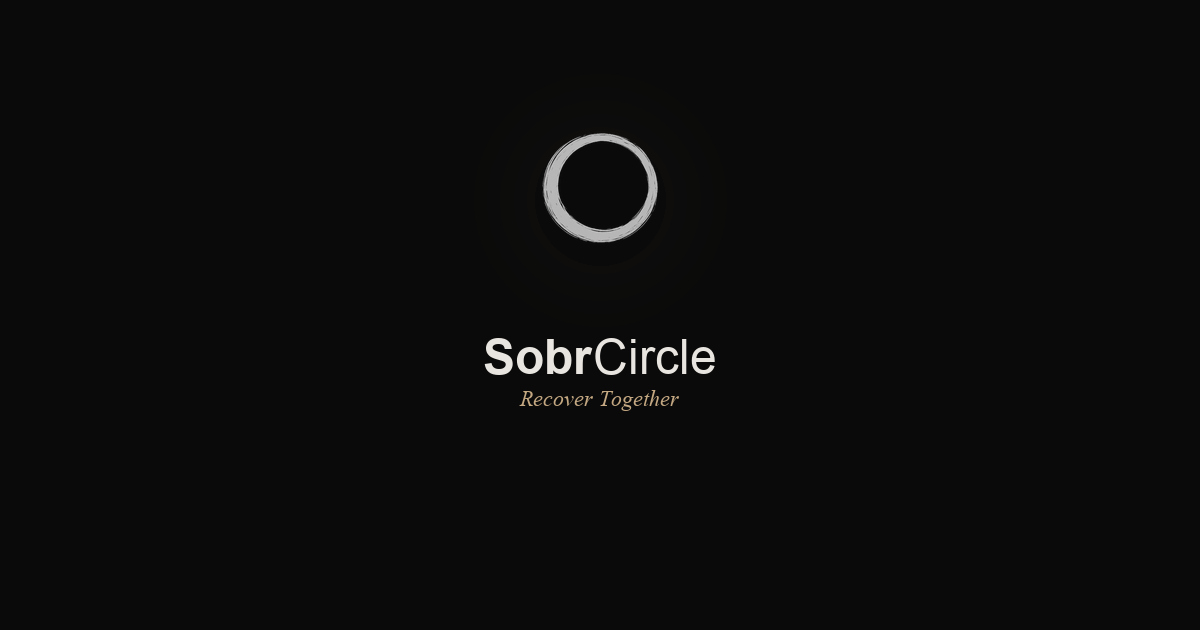
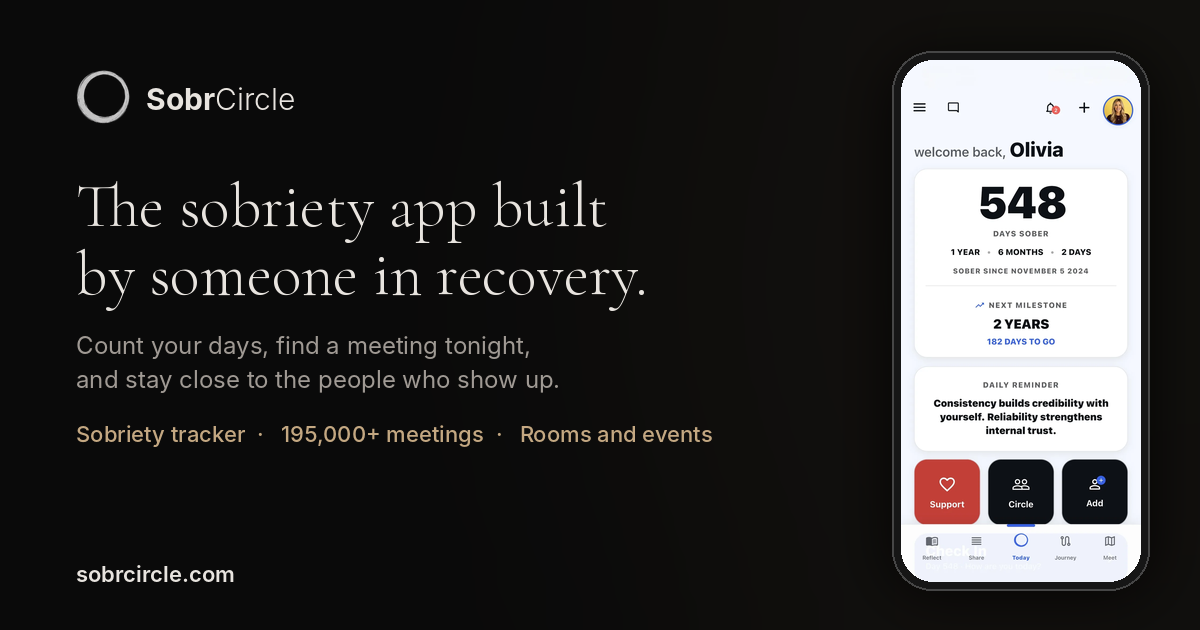
Share previews say what SobrCircle is
- New 1200x630 link previews: og-share.png ("The sobriety app built by
  someone in recovery", tracker screenshot) and og-meetings.png ("Find
  recovery meetings near you, tonight", live navigation screenshot).
  Meeting pages use the map one, every other page the tracker one.
- Homepage share title/description replace "Recover Together." / "A
  private space for the people who show up." with what the app does;
  meta description now names sobriety and recovery app, tracker,
  meetings with live navigation, rooms and events. og:image:alt added.
- Legal and support pages get canonical and share tags so shared links
  show a proper card.
- scripts/make-share-images.py redraws the previews.

Claude-Session: https://claude.ai/code/session_01DqsBy6kUDTMmp6qgPayhyK

diff --git a/index.html b/index.html
@@ -12,21 +12,22 @@
     <meta name="theme-color" media="(prefers-color-scheme: dark)" content="#0a0a0a" />
     <meta name="theme-color" content="#0a0a0a" />
     <meta name="apple-mobile-web-app-status-bar-style" content="black-translucent" />
-    <meta name="description" content="The sobriety app built by someone in recovery. Sobriety tracker, sober community rooms and events, and 195,000+ meetings, including AA, NA and CA." />
+    <meta name="description" content="The sobriety and recovery app built by someone in recovery. Sobriety tracker, 195,000+ AA, NA and CA meetings with live navigation, rooms and events." />
     <link rel="canonical" href="https://sobrcircle.com/" />
     <meta name="apple-itunes-app" content="app-id=6760403731" />
     <meta property="og:type" content="website" />
     <meta property="og:site_name" content="SobrCircle" />
-    <meta property="og:title" content="SobrCircle - Recover Together." />
-    <meta property="og:description" content="A private space for the people who show up." />
+    <meta property="og:title" content="SobrCircle: The Sobriety App Built by Someone in Recovery" />
+    <meta property="og:description" content="Sobriety tracker, 195,000+ meetings with live navigation, and rooms and events with people who get it. Free to download." />
     <meta property="og:url" content="https://sobrcircle.com/" />
-    <meta property="og:image" content="https://sobrcircle.com/assets/og-share.png?v=6" />
+    <meta property="og:image" content="https://sobrcircle.com/assets/og-share.png?v=7" />
     <meta property="og:image:width" content="1200" />
     <meta property="og:image:height" content="630" />
+    <meta property="og:image:alt" content="SobrCircle, the sobriety app built by someone in recovery: sobriety tracker, 195,000+ meetings, rooms and events" />
     <meta name="twitter:card" content="summary_large_image" />
-    <meta name="twitter:title" content="SobrCircle - Recover Together." />
-    <meta name="twitter:description" content="A private space for the people who show up." />
-    <meta name="twitter:image" content="https://sobrcircle.com/assets/og-share.png?v=6" />
+    <meta name="twitter:title" content="SobrCircle: The Sobriety App Built by Someone in Recovery" />
+    <meta name="twitter:description" content="Sobriety tracker, 195,000+ meetings with live navigation, and rooms and events with people who get it. Free to download." />
+    <meta name="twitter:image" content="https://sobrcircle.com/assets/og-share.png?v=7" />
     <title>SobrCircle: Sober App, Sobriety Tracker and Meeting Finder</title>
     <script type="application/ld+json">
       {
@@ -49,7 +50,7 @@
             "description": "A private recovery community app, free to download with no ads. Find 195,000+ meetings near you, including AA, NA and CA, with meeting times and live navigation by car, foot, bike or transit. Join public and private rooms, find community events and members near you, check in daily, keep a private journal, and stay connected to a circle of people you choose.",
             "applicationCategory": "HealthApplication",
             "operatingSystem": "iOS, Android",
-            "image": "https://sobrcircle.com/assets/og-share.png",
+            "image": "https://sobrcircle.com/assets/og-share.png?v=7",
             "offers": { "@type": "Offer", "price": "0", "priceCurrency": "CAD" },
             "installUrl": [
               "https://apps.apple.com/app/sobrcircle/id6760403731",

diff --git a/scripts/build-pages.ts b/scripts/build-pages.ts
@@ -76,6 +76,8 @@ type PageOpts = {
   jsonLd?: object[]
   nav?: 'meetings' | 'follow'
   noindex?: boolean
+  /** Share image: the map screenshot for meeting pages, the tracker for the rest. */
+  ogImage?: 'meetings' | 'share'
 }
 
 function nav(current?: PageOpts['nav']) {
@@ -121,6 +123,11 @@ function footer() {
 
 function page(o: PageOpts) {
   const url = SITE + o.path
+  const meetings = (o.ogImage ?? (o.path.startsWith('/meetings/') ? 'meetings' : 'share')) === 'meetings'
+  const ogImg = `${SITE}/assets/${meetings ? 'og-meetings' : 'og-share'}.png?v=7`
+  const ogAlt = meetings
+    ? 'Find recovery meetings near you with SobrCircle: 195,000+ meetings with times and live navigation'
+    : 'SobrCircle, the sobriety app built by someone in recovery: sobriety tracker, 195,000+ meetings, rooms and events'
   const ld = [
     ...(o.jsonLd ?? []),
   ]
@@ -140,13 +147,14 @@ function page(o: PageOpts) {
     <meta property="og:title" content="${esc(o.title)}">
     <meta property="og:description" content="${esc(o.description)}">
     <meta property="og:url" content="${url}">
-    <meta property="og:image" content="${SITE}/assets/og-share.png?v=6">
+    <meta property="og:image" content="${ogImg}">
+    <meta property="og:image:alt" content="${esc(ogAlt)}">
     <meta property="og:image:width" content="1200">
     <meta property="og:image:height" content="630">
     <meta name="twitter:card" content="summary_large_image">
     <meta name="twitter:title" content="${esc(o.title)}">
     <meta name="twitter:description" content="${esc(o.description)}">
-    <meta name="twitter:image" content="${SITE}/assets/og-share.png?v=6">
+    <meta name="twitter:image" content="${ogImg}">
     <link rel="icon" href="/favicon.ico" sizes="48x48">
     <link rel="icon" type="image/png" sizes="192x192" href="/favicon-192.png">
     <link rel="apple-touch-icon" sizes="180x180" href="/apple-touch-icon.png?v=4">

diff --git a/public/meetings/cocaine-anonymous/index.html b/public/meetings/cocaine-anonymous/index.html
@@ -15,13 +15,14 @@
     <meta property="og:title" content="Cocaine Anonymous Meetings Near Me: Find CA Meetings Tonight">
     <meta property="og:description" content="Find Cocaine Anonymous (CA) meetings near you, in person or online. What CA meetings are like, and an app that maps recovery meetings near you with directions.">
     <meta property="og:url" content="https://sobrcircle.com/meetings/cocaine-anonymous/">
-    <meta property="og:image" content="https://sobrcircle.com/assets/og-share.png?v=6">
+    <meta property="og:image" content="https://sobrcircle.com/assets/og-meetings.png?v=7">
+    <meta property="og:image:alt" content="Find recovery meetings near you with SobrCircle: 195,000+ meetings with times and live navigation">
     <meta property="og:image:width" content="1200">
     <meta property="og:image:height" content="630">
     <meta name="twitter:card" content="summary_large_image">
     <meta name="twitter:title" content="Cocaine Anonymous Meetings Near Me: Find CA Meetings Tonight">
     <meta name="twitter:description" content="Find Cocaine Anonymous (CA) meetings near you, in person or online. What CA meetings are like, and an app that maps recovery meetings near you with directions.">
-    <meta name="twitter:image" content="https://sobrcircle.com/assets/og-share.png?v=6">
+    <meta name="twitter:image" content="https://sobrcircle.com/assets/og-meetings.png?v=7">
     <link rel="icon" href="/favicon.ico" sizes="48x48">
     <link rel="icon" type="image/png" sizes="192x192" href="/favicon-192.png">
     <link rel="apple-touch-icon" sizes="180x180" href="/apple-touch-icon.png?v=4">

diff --git a/public/sober-community/index.html b/public/sober-community/index.html
@@ -15,13 +15,14 @@
     <meta property="og:title" content="Sober Community App: Rooms, Events and Sober Friends Near You">
     <meta property="og:description" content="Join a sober community app with no ads. Public and private rooms, group chats, members and community events near you, and a private circle of people you trust.">
     <meta property="og:url" content="https://sobrcircle.com/sober-community/">
-    <meta property="og:image" content="https://sobrcircle.com/assets/og-share.png?v=6">
+    <meta property="og:image" content="https://sobrcircle.com/assets/og-share.png?v=7">
+    <meta property="og:image:alt" content="SobrCircle, the sobriety app built by someone in recovery: sobriety tracker, 195,000+ meetings, rooms and events">
     <meta property="og:image:width" content="1200">
     <meta property="og:image:height" content="630">
     <meta name="twitter:card" content="summary_large_image">
     <meta name="twitter:title" content="Sober Community App: Rooms, Events and Sober Friends Near You">
     <meta name="twitter:description" content="Join a sober community app with no ads. Public and private rooms, group chats, members and community events near you, and a private circle of people you trust.">
-    <meta name="twitter:image" content="https://sobrcircle.com/assets/og-share.png?v=6">
+    <meta name="twitter:image" content="https://sobrcircle.com/assets/og-share.png?v=7">
     <link rel="icon" href="/favicon.ico" sizes="48x48">
     <link rel="icon" type="image/png" sizes="192x192" href="/favicon-192.png">
     <link rel="apple-touch-icon" sizes="180x180" href="/apple-touch-icon.png?v=4">

diff --git a/public/sober-grid-alternative/index.html b/public/sober-grid-alternative/index.html
@@ -15,13 +15,14 @@
     <meta property="og:title" content="Sober Grid Alternative: A Sober Community App With No Ads">
     <meta property="og:description" content="Looking for a Sober Grid alternative? SobrCircle is a sober community app with no ads: public rooms, members near you, events, a sobriety tracker and meetings.">
     <meta property="og:url" content="https://sobrcircle.com/sober-grid-alternative/">
-    <meta property="og:image" content="https://sobrcircle.com/assets/og-share.png?v=6">
+    <meta property="og:image" content="https://sobrcircle.com/assets/og-share.png?v=7">
+    <meta property="og:image:alt" content="SobrCircle, the sobriety app built by someone in recovery: sobriety tracker, 195,000+ meetings, rooms and events">
     <meta property="og:image:width" content="1200">
     <meta property="og:image:height" content="630">
     <meta name="twitter:card" content="summary_large_image">
     <meta name="twitter:title" content="Sober Grid Alternative: A Sober Community App With No Ads">
     <meta name="twitter:description" content="Looking for a Sober Grid alternative? SobrCircle is a sober community app with no ads: public rooms, members near you, events, a sobriety tracker and meetings.">
-    <meta name="twitter:image" content="https://sobrcircle.com/assets/og-share.png?v=6">
+    <meta name="twitter:image" content="https://sobrcircle.com/assets/og-share.png?v=7">
     <link rel="icon" href="/favicon.ico" sizes="48x48">
     <link rel="icon" type="image/png" sizes="192x192" href="/favicon-192.png">
     <link rel="apple-touch-icon" sizes="180x180" href="/apple-touch-icon.png?v=4">

diff --git a/public/meetings/aa/index.html b/public/meetings/aa/index.html
@@ -15,13 +15,14 @@
     <meta property="og:title" content="AA Meetings Near Me: Find Alcoholics Anonymous Meetings Tonight">
     <meta property="og:description" content="Find AA meetings near you tonight, in person or online. Open and closed meetings, what to expect at your first one, and an app that maps meetings with directions.">
     <meta property="og:url" content="https://sobrcircle.com/meetings/aa/">
-    <meta property="og:image" content="https://sobrcircle.com/assets/og-share.png?v=6">
+    <meta property="og:image" content="https://sobrcircle.com/assets/og-meetings.png?v=7">
+    <meta property="og:image:alt" content="Find recovery meetings near you with SobrCircle: 195,000+ meetings with times and live navigation">
     <meta property="og:image:width" content="1200">
     <meta property="og:image:height" content="630">
     <meta name="twitter:card" content="summary_large_image">
     <meta name="twitter:title" content="AA Meetings Near Me: Find Alcoholics Anonymous Meetings Tonight">
     <meta name="twitter:description" content="Find AA meetings near you tonight, in person or online. Open and closed meetings, what to expect at your first one, and an app that maps meetings with directions.">
-    <meta name="twitter:image" content="https://sobrcircle.com/assets/og-share.png?v=6">
+    <meta name="twitter:image" content="https://sobrcircle.com/assets/og-meetings.png?v=7">
     <link rel="icon" href="/favicon.ico" sizes="48x48">
     <link rel="icon" type="image/png" sizes="192x192" href="/favicon-192.png">
     <link rel="apple-touch-icon" sizes="180x180" href="/apple-touch-icon.png?v=4">

diff --git a/public/meetings/hamilton/index.html b/public/meetings/hamilton/index.html
@@ -15,13 +15,14 @@
     <meta property="og:title" content="AA and NA Meetings in Hamilton, Ontario: Find a Meeting Tonight">
     <meta property="og:description" content="Find AA, NA and Cocaine Anonymous meetings in Hamilton tonight. Local meeting directories, help lines, and an app with live navigation to meetings near you.">
     <meta property="og:url" content="https://sobrcircle.com/meetings/hamilton/">
-    <meta property="og:image" content="https://sobrcircle.com/assets/og-share.png?v=6">
+    <meta property="og:image" content="https://sobrcircle.com/assets/og-meetings.png?v=7">
+    <meta property="og:image:alt" content="Find recovery meetings near you with SobrCircle: 195,000+ meetings with times and live navigation">
     <meta property="og:image:width" content="1200">
     <meta property="og:image:height" content="630">
     <meta name="twitter:card" content="summary_large_image">
     <meta name="twitter:title" content="AA and NA Meetings in Hamilton, Ontario: Find a Meeting Tonight">
     <meta name="twitter:description" content="Find AA, NA and Cocaine Anonymous meetings in Hamilton tonight. Local meeting directories, help lines, and an app with live navigation to meetings near you.">
-    <meta name="twitter:image" content="https://sobrcircle.com/assets/og-share.png?v=6">
+    <meta name="twitter:image" content="https://sobrcircle.com/assets/og-meetings.png?v=7">
     <link rel="icon" href="/favicon.ico" sizes="48x48">
     <link rel="icon" type="image/png" sizes="192x192" href="/favicon-192.png">
     <link rel="apple-touch-icon" sizes="180x180" href="/apple-touch-icon.png?v=4">

diff --git a/public/meetings/london-ontario/index.html b/public/meetings/london-ontario/index.html
@@ -15,13 +15,14 @@
     <meta property="og:title" content="AA and NA Meetings in London, Ontario: Find a Meeting Tonight">
     <meta property="og:description" content="Find AA, NA and Cocaine Anonymous meetings in London tonight. Local meeting directories, help lines, and an app with live navigation to meetings near you.">
     <meta property="og:url" content="https://sobrcircle.com/meetings/london-ontario/">
-    <meta property="og:image" content="https://sobrcircle.com/assets/og-share.png?v=6">
+    <meta property="og:image" content="https://sobrcircle.com/assets/og-meetings.png?v=7">
+    <meta property="og:image:alt" content="Find recovery meetings near you with SobrCircle: 195,000+ meetings with times and live navigation">
     <meta property="og:image:width" content="1200">
     <meta property="og:image:height" content="630">
     <meta name="twitter:card" content="summary_large_image">
     <meta name="twitter:title" content="AA and NA Meetings in London, Ontario: Find a Meeting Tonight">
     <meta name="twitter:description" content="Find AA, NA and Cocaine Anonymous meetings in London tonight. Local meeting directories, help lines, and an app with live navigation to meetings near you.">
-    <meta name="twitter:image" content="https://sobrcircle.com/assets/og-share.png?v=6">
+    <meta name="twitter:image" content="https://sobrcircle.com/assets/og-meetings.png?v=7">
     <link rel="icon" href="/favicon.ico" sizes="48x48">
     <link rel="icon" type="image/png" sizes="192x192" href="/favicon-192.png">
     <link rel="apple-touch-icon" sizes="180x180" href="/apple-touch-icon.png?v=4">

diff --git a/public/meetings/chicago/index.html b/public/meetings/chicago/index.html
@@ -15,13 +15,14 @@
     <meta property="og:title" content="AA and NA Meetings in Chicago, Illinois: Find a Meeting Tonight">
     <meta property="og:description" content="Find AA, NA and Cocaine Anonymous meetings in Chicago tonight. Local meeting directories, help lines, and an app with live navigation to meetings near you.">
     <meta property="og:url" content="https://sobrcircle.com/meetings/chicago/">
-    <meta property="og:image" content="https://sobrcircle.com/assets/og-share.png?v=6">
+    <meta property="og:image" content="https://sobrcircle.com/assets/og-meetings.png?v=7">
+    <meta property="og:image:alt" content="Find recovery meetings near you with SobrCircle: 195,000+ meetings with times and live navigation">
     <meta property="og:image:width" content="1200">
     <meta property="og:image:height" content="630">
     <meta name="twitter:card" content="summary_large_image">
     <meta name="twitter:title" content="AA and NA Meetings in Chicago, Illinois: Find a Meeting Tonight">
     <meta name="twitter:description" content="Find AA, NA and Cocaine Anonymous meetings in Chicago tonight. Local meeting directories, help lines, and an app with live navigation to meetings near you.">
-    <meta name="twitter:image" content="https://sobrcircle.com/assets/og-share.png?v=6">
+    <meta name="twitter:image" content="https://sobrcircle.com/assets/og-meetings.png?v=7">
     <link rel="icon" href="/favicon.ico" sizes="48x48">
     <link rel="icon" type="image/png" sizes="192x192" href="/favicon-192.png">
     <link rel="apple-touch-icon" sizes="180x180" href="/apple-touch-icon.png?v=4">

diff --git a/public/meetings/detroit/index.html b/public/meetings/detroit/index.html
@@ -15,13 +15,14 @@
     <meta property="og:title" content="AA and NA Meetings in Detroit, Michigan: Find a Meeting Tonight">
     <meta property="og:description" content="Find AA, NA and Cocaine Anonymous meetings in Detroit tonight. Local meeting directories, help lines, and an app with live navigation to meetings near you.">
     <meta property="og:url" content="https://sobrcircle.com/meetings/detroit/">
-    <meta property="og:image" content="https://sobrcircle.com/assets/og-share.png?v=6">
+    <meta property="og:image" content="https://sobrcircle.com/assets/og-meetings.png?v=7">
+    <meta property="og:image:alt" content="Find recovery meetings near you with SobrCircle: 195,000+ meetings with times and live navigation">
     <meta property="og:image:width" content="1200">
     <meta property="og:image:height" content="630">
     <meta name="twitter:card" content="summary_large_image">
     <meta name="twitter:title" content="AA and NA Meetings in Detroit, Michigan: Find a Meeting Tonight">
     <meta name="twitter:description" content="Find AA, NA and Cocaine Anonymous meetings in Detroit tonight. Local meeting directories, help lines, and an app with live navigation to meetings near you.">
-    <meta name="twitter:image" content="https://sobrcircle.com/assets/og-share.png?v=6">
+    <meta name="twitter:image" content="https://sobrcircle.com/assets/og-meetings.png?v=7">
     <link rel="icon" href="/favicon.ico" sizes="48x48">
     <link rel="icon" type="image/png" sizes="192x192" href="/favicon-192.png">
     <link rel="apple-touch-icon" sizes="180x180" href="/apple-touch-icon.png?v=4">

diff --git a/public/meetings/calgary/index.html b/public/meetings/calgary/index.html
@@ -15,13 +15,14 @@
     <meta property="og:title" content="AA and NA Meetings in Calgary, Alberta: Find a Meeting Tonight">
     <meta property="og:description" content="Find AA, NA and Cocaine Anonymous meetings in Calgary tonight. Local meeting directories, help lines, and an app with live navigation to meetings near you.">
     <meta property="og:url" content="https://sobrcircle.com/meetings/calgary/">
-    <meta property="og:image" content="https://sobrcircle.com/assets/og-share.png?v=6">
+    <meta property="og:image" content="https://sobrcircle.com/assets/og-meetings.png?v=7">
+    <meta property="og:image:alt" content="Find recovery meetings near you with SobrCircle: 195,000+ meetings with times and live navigation">
     <meta property="og:image:width" content="1200">
     <meta property="og:image:height" content="630">
     <meta name="twitter:card" content="summary_large_image">
     <meta name="twitter:title" content="AA and NA Meetings in Calgary, Alberta: Find a Meeting Tonight">
     <meta name="twitter:description" content="Find AA, NA and Cocaine Anonymous meetings in Calgary tonight. Local meeting directories, help lines, and an app with live navigation to meetings near you.">
-    <meta name="twitter:image" content="https://sobrcircle.com/assets/og-share.png?v=6">
+    <meta name="twitter:image" content="https://sobrcircle.com/assets/og-meetings.png?v=7">
     <link rel="icon" href="/favicon.ico" sizes="48x48">
     <link rel="icon" type="image/png" sizes="192x192" href="/favicon-192.png">
     <link rel="apple-touch-icon" sizes="180x180" href="/apple-touch-icon.png?v=4">

diff --git a/public/meetings/new-york-city/index.html b/public/meetings/new-york-city/index.html
@@ -15,13 +15,14 @@
     <meta property="og:title" content="AA and NA Meetings in New York City, New York Tonight">
     <meta property="og:description" content="Find AA, NA and Cocaine Anonymous meetings in New York City tonight. Local meeting directories, help lines, and an app with live navigation to meetings near you.">
     <meta property="og:url" content="https://sobrcircle.com/meetings/new-york-city/">
-    <meta property="og:image" content="https://sobrcircle.com/assets/og-share.png?v=6">
+    <meta property="og:image" content="https://sobrcircle.com/assets/og-meetings.png?v=7">
+    <meta property="og:image:alt" content="Find recovery meetings near you with SobrCircle: 195,000+ meetings with times and live navigation">
     <meta property="og:image:width" content="1200">
     <meta property="og:image:height" content="630">
     <meta name="twitter:card" content="summary_large_image">
     <meta name="twitter:title" content="AA and NA Meetings in New York City, New York Tonight">
     <meta name="twitter:description" content="Find AA, NA and Cocaine Anonymous meetings in New York City tonight. Local meeting directories, help lines, and an app with live navigation to meetings near you.">
-    <meta name="twitter:image" content="https://sobrcircle.com/assets/og-share.png?v=6">
+    <meta name="twitter:image" content="https://sobrcircle.com/assets/og-meetings.png?v=7">
     <link rel="icon" href="/favicon.ico" sizes="48x48">
     <link rel="icon" type="image/png" sizes="192x192" href="/favicon-192.png">
     <link rel="apple-touch-icon" sizes="180x180" href="/apple-touch-icon.png?v=4">
